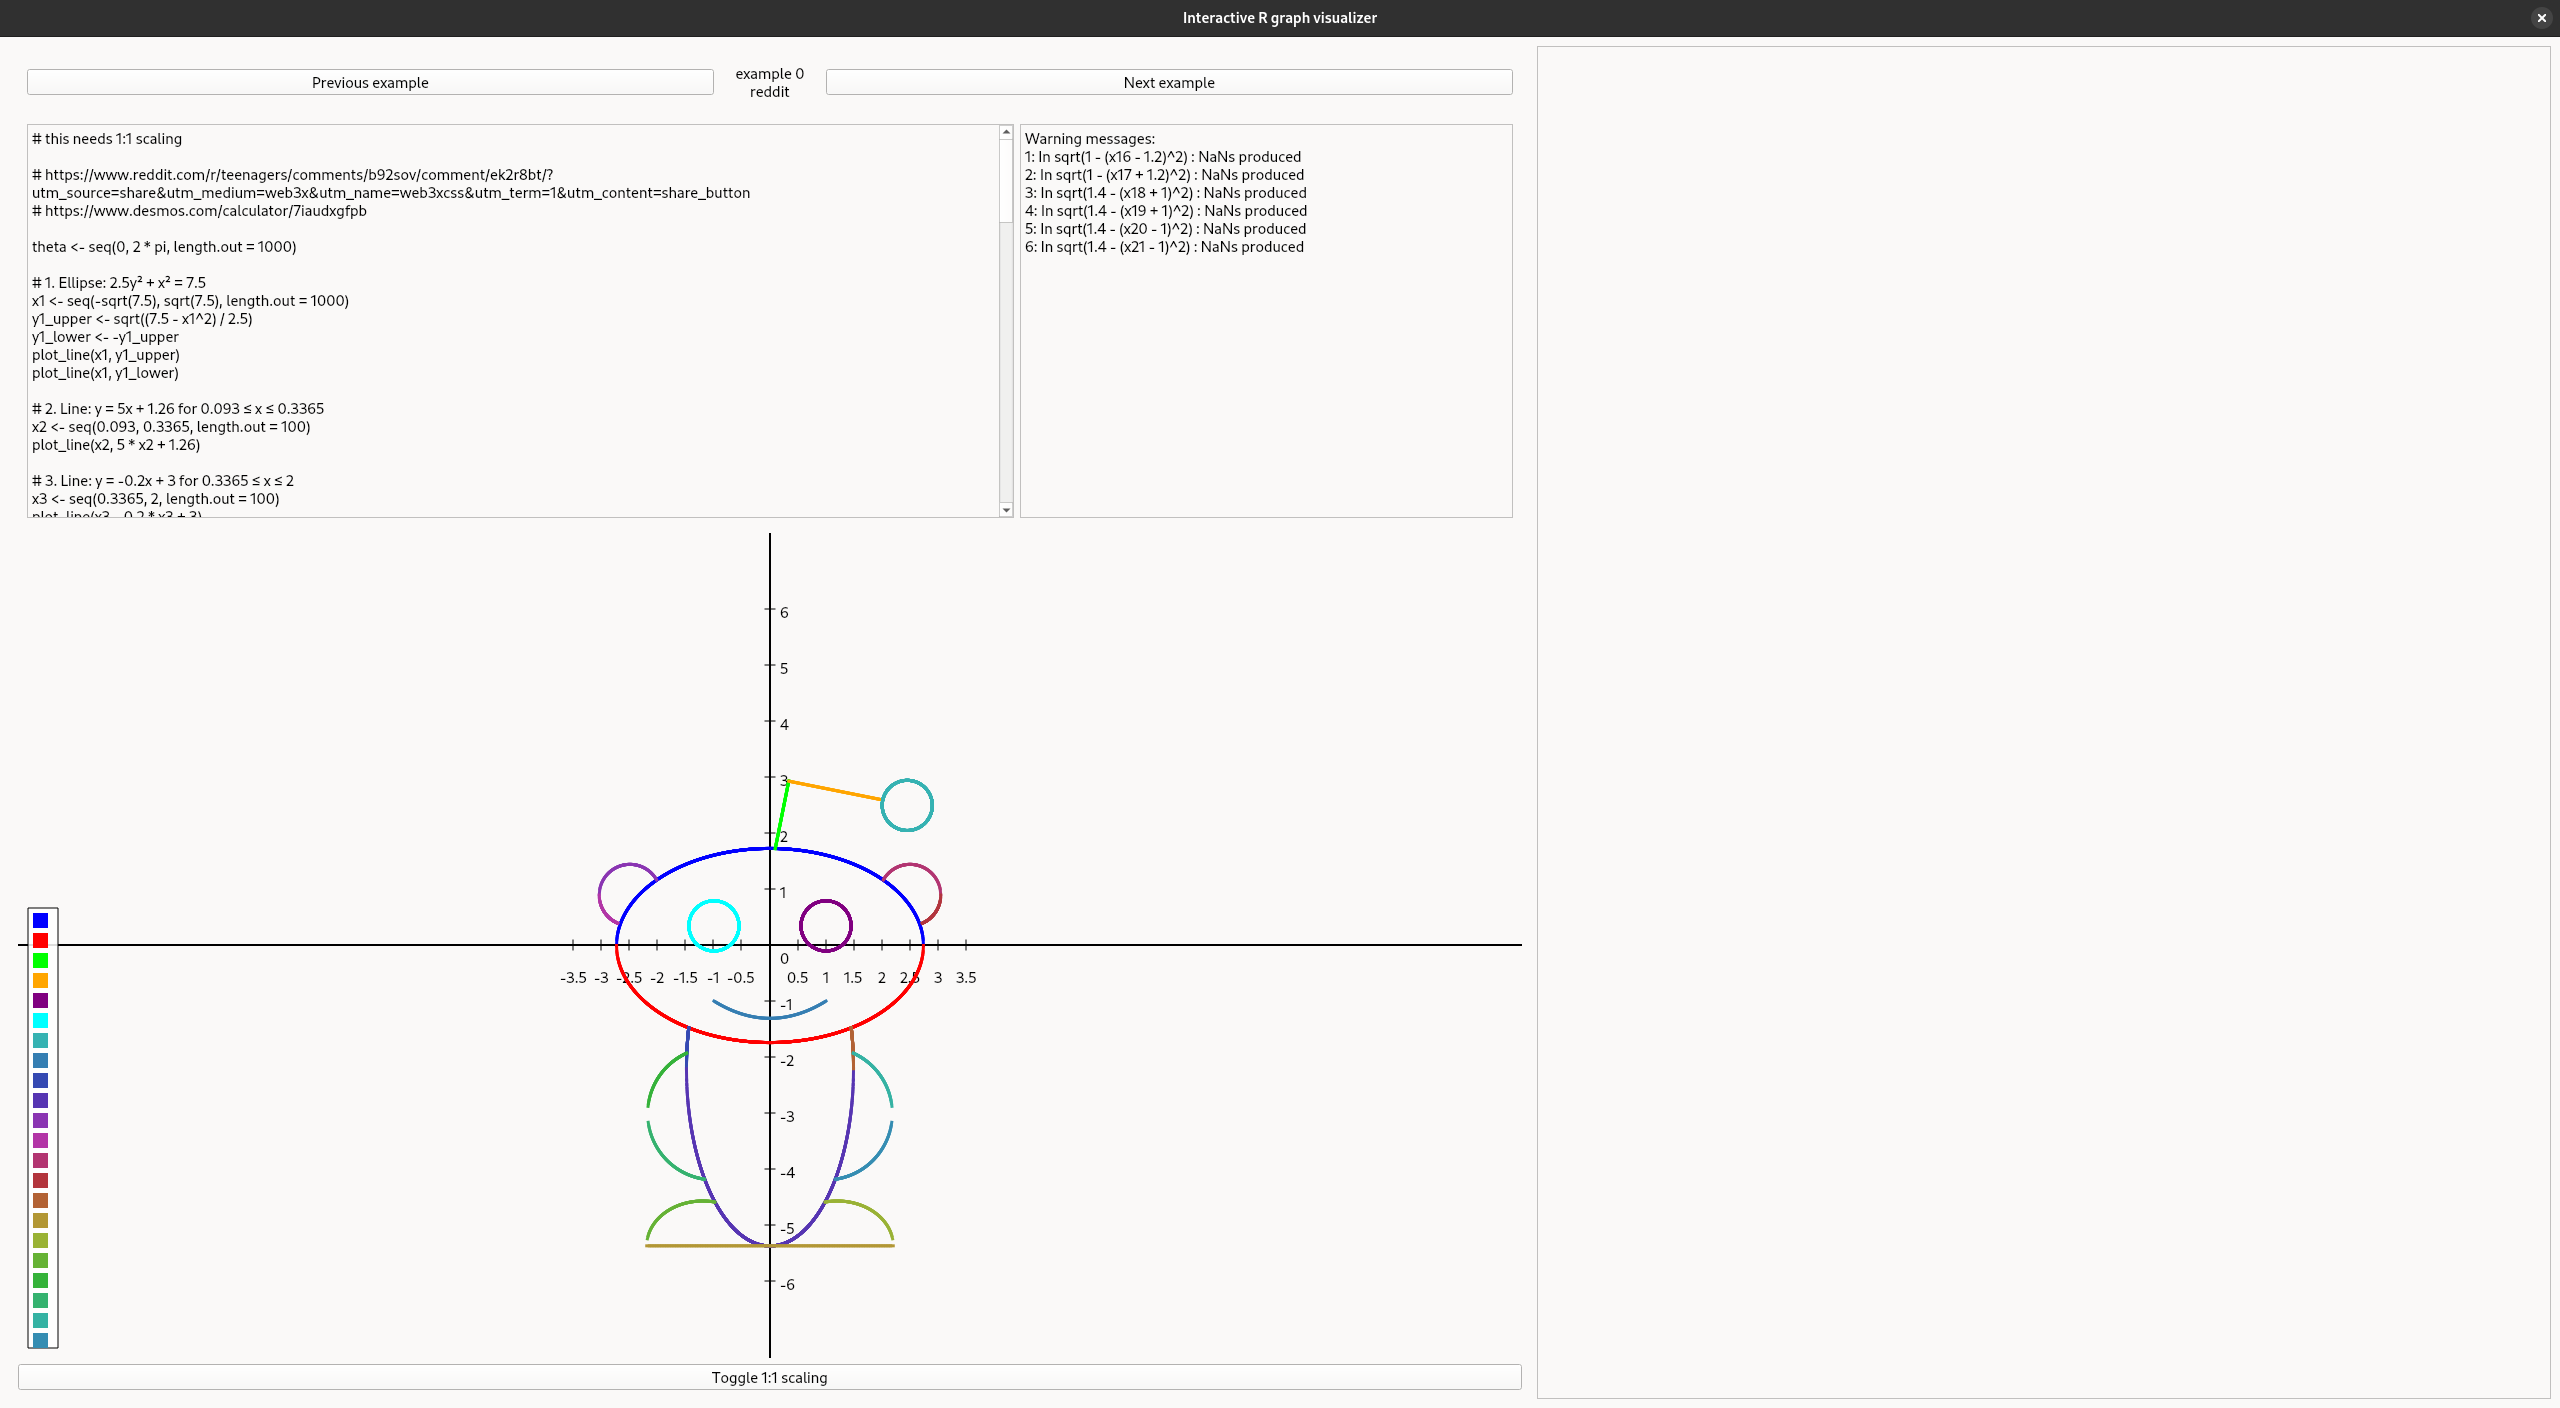
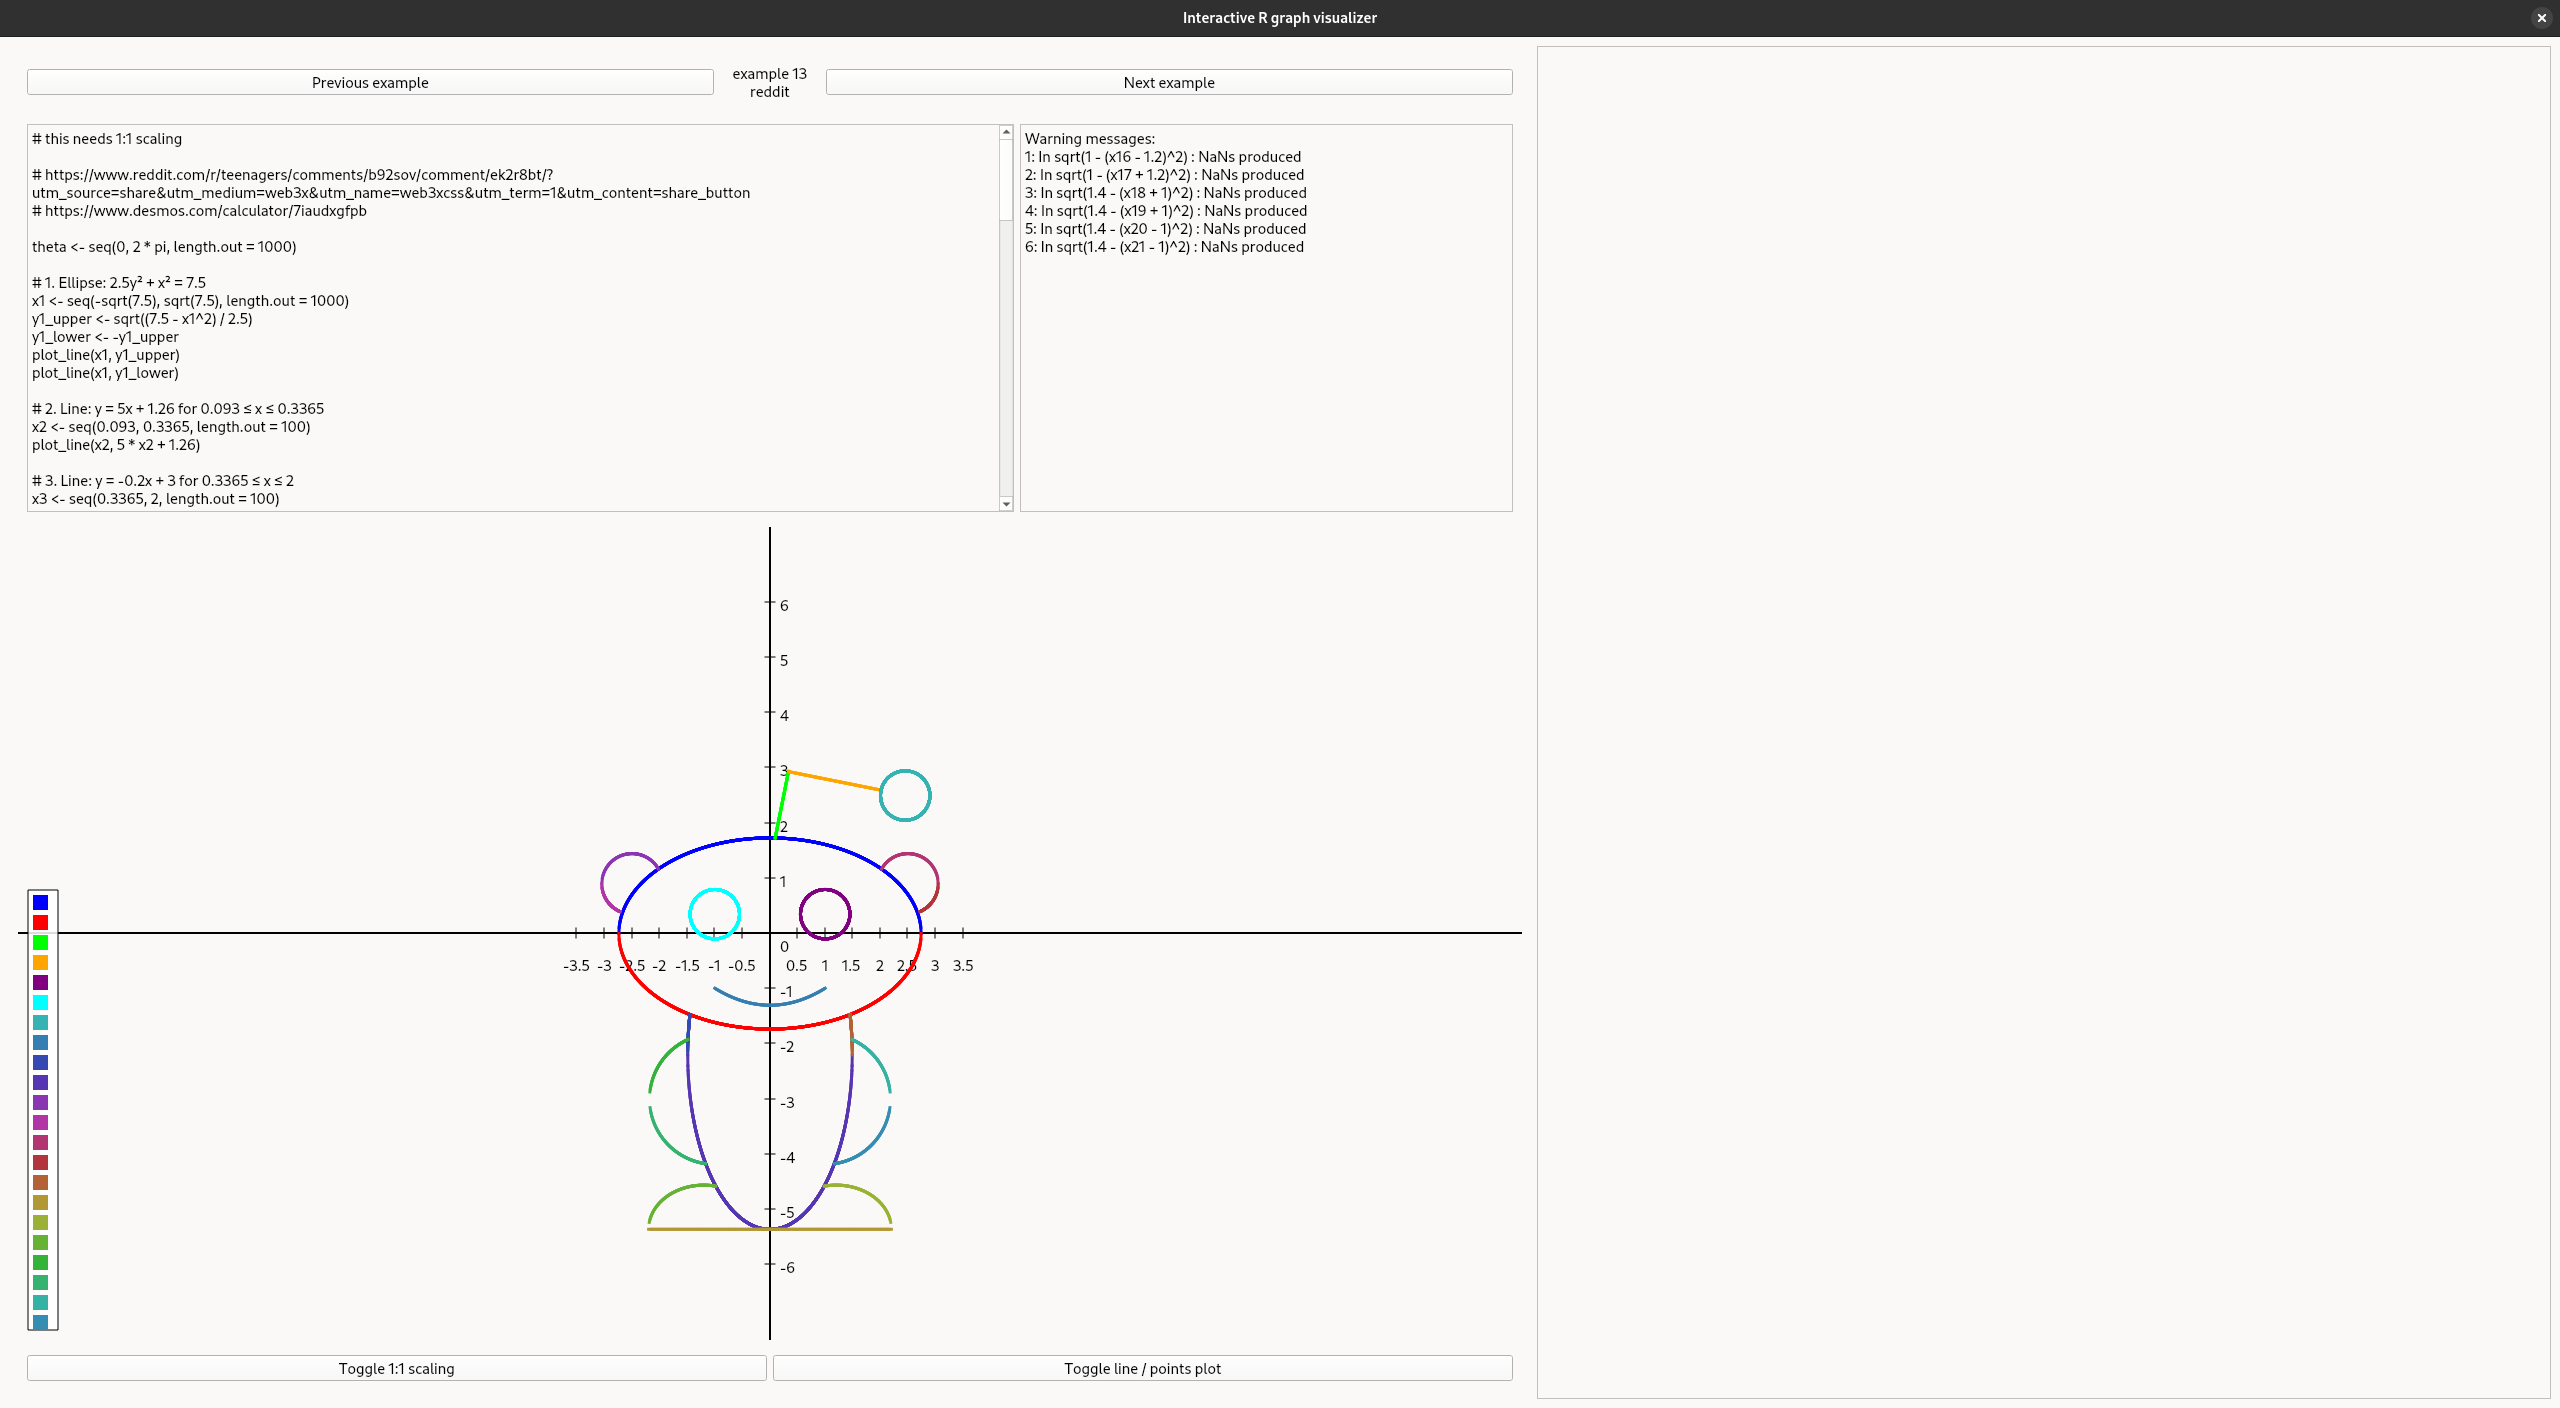
add points / lines plot toggle

diff --git a/graph.py b/graph.py
@@ -15,9 +15,14 @@ class Widget(QWidget):
         self.colors = [QColor(0, 0, 255), QColor(255, 0, 0), QColor(0, 255, 0), QColor(255, 165, 0), QColor(128, 0, 128), QColor(0, 255, 255)]
         self.current_color_index = 0
         self.one_to_one_scaling = False
+        self.draw_points = False
 
     def toggle_scaling(self):
         self.one_to_one_scaling = not self.one_to_one_scaling
+        self.update()
+
+    def toggle_points(self):
+        self.draw_points = not self.draw_points
         self.update()
 
 
@@ -97,8 +102,13 @@ class Widget(QWidget):
             path = [QPointF(center_x + x * x_scale, center_y - y * y_scale) 
                    for x, y in points]
             
-            for i in range(1, len(path)):
-                painter.drawLine(path[i-1], path[i])
+            if self.draw_points:
+                for point in path:
+                    painter.drawPoint(point)
+            else:
+                for i in range(1, len(path)):
+                    painter.drawLine(path[i-1], path[i])
+            
 
 
 

diff --git a/app.py b/app.py
@@ -52,6 +52,9 @@ class MainWindow(QMainWindow):
         top_left_layout = QHBoxLayout(top_left_widget)
         left_layout.addWidget(top_left_widget, stretch=1)
 
+        bottom_left_buttons_widget = QWidget()
+        bottom_left_buttons_layout = QHBoxLayout(bottom_left_buttons_widget)
+
         # Right panel with scroll
         right_widget = QWidget()
         right_widget.setMinimumWidth(300)
@@ -97,7 +100,13 @@ class MainWindow(QMainWindow):
 
         scale_button = QPushButton("Toggle 1:1 scaling")
         scale_button.clicked.connect(self.graph_widget.toggle_scaling)
-        left_layout.addWidget(scale_button)
+        bottom_left_buttons_layout.addWidget(scale_button)
+
+        plot_type_button = QPushButton("Toggle line / points plot")
+        plot_type_button.clicked.connect(self.graph_widget.toggle_points)
+        bottom_left_buttons_layout.addWidget(plot_type_button)
+
+        left_layout.addWidget(bottom_left_buttons_widget)
 
 
 

diff --git a/README.md b/README.md
@@ -3,7 +3,7 @@
 
 # Vizualizator interactiv de grafice generate de R
 
-![](./assets/example_4.png)
+![](./assets/example_4_points.png)
 
 # Funcționalități
 * Suport complet pentru mediul R
@@ -55,4 +55,6 @@ Pentru a crea o aplicație cu o parte din funcționalitatea acestei librării, a
 
 ![](./assets/reddit.png)
 
-![](./assets/example_4.png)
+![](./assets/example_4_points.png)
+
+![](./assets/example_4_lines.png)
